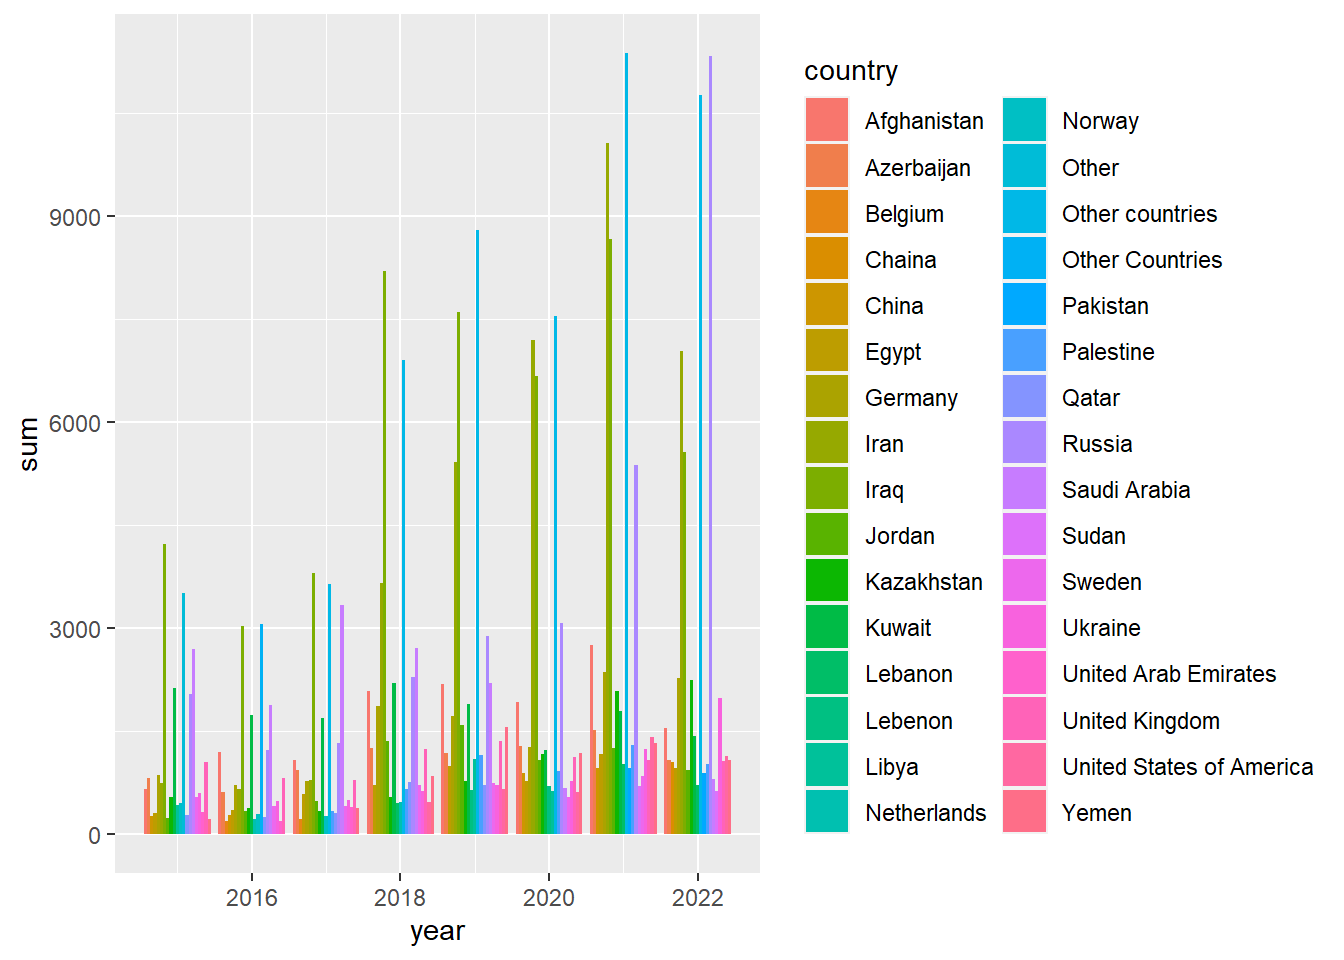
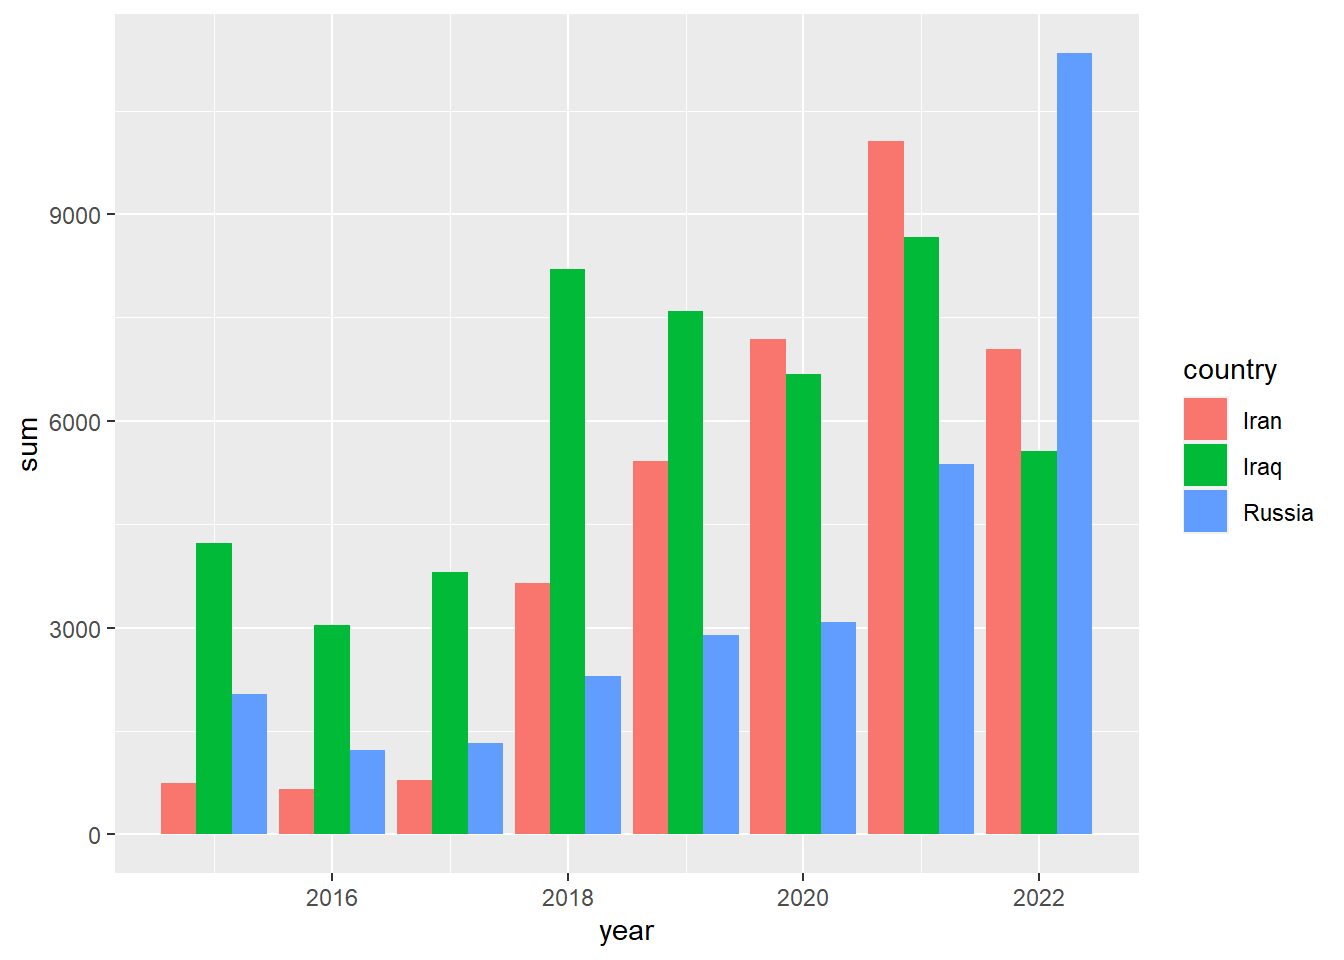
egemen -uğur

diff --git a/docs/ExploratoryDataAnalysis.html b/docs/ExploratoryDataAnalysis.html
@@ -295,6 +295,7 @@ code span.wa { color: #60a0b0; font-weight: bold; font-style: italic; } /* Warni
 <li>When we examine the sales data, although the rate of sales to foreigners has increased over the years, it has remained around 5 percent. Considering this information, it seems difficult for the sale to foreigners to have a significant impact on the market.</li>
 <li>After 2019, we can see that the annual average cost index exceeds the annual average turnover index.Due to the increasing cost index in 2018, new building construction becomes costly, as a result, new building construction remains low in response to new demand. As a result, while the second hand rate increases in sales, it causes an increase in house prices.</li>
 <li>When we examine the relationship between the dollar and TL exchange rate, we conclude that the TL has experienced a high depreciation against the dollar. And we observe that there is a clear correlation between the cost index and the dollar-tl exchange rate relationship.</li>
+<li>With the government’s limit on mortgage in 2021, the sales of housing with credit are decreasing, but the total sales are not decreasing. We see this because people buy houses with the cash they get from other ways because they think that house prices will not decrease.</li>
 </ol>
 <section id="total-sales-with-sales-to-foreigners-and-sales-to-foreigners-share" class="level3">
 <h3 class="anchored" data-anchor-id="total-sales-with-sales-to-foreigners-and-sales-to-foreigners-share">Total sales with Sales To Foreigners and Sales To Foreigners Share (%)</h3>
@@ -401,10 +402,9 @@ code span.wa { color: #60a0b0; font-weight: bold; font-style: italic; } /* Warni
 <div class="cell">
 <details>
 <summary>Show the code</summary>
-<div class="sourceCode cell-code" id="cb9"><pre class="sourceCode r code-with-copy"><code class="sourceCode r"><span id="cb9-1"><a href="#cb9-1" aria-hidden="true" tabindex="-1"></a><span class="fu">library</span>(readxl)</span>
-<span id="cb9-2"><a href="#cb9-2" aria-hidden="true" tabindex="-1"></a>HSTFBN <span class="ot">&lt;-</span> <span class="fu">read_excel</span>(<span class="st">"data/HSTFBN.xls"</span>, <span class="at">sheet =</span> <span class="st">"FOREIGNERS BY NATIONALITIES"</span>)</span>
-<span id="cb9-3"><a href="#cb9-3" aria-hidden="true" tabindex="-1"></a></span>
-<span id="cb9-4"><a href="#cb9-4" aria-hidden="true" tabindex="-1"></a>total_sale_by_country <span class="ot">&lt;-</span> HSTFBN <span class="sc">%&gt;%</span> <span class="fu">group_by</span>(year,country) <span class="sc">%&gt;%</span> <span class="fu">summarise</span>(<span class="at">sum=</span><span class="fu">sum</span>(total))</span></code><button title="Copy to Clipboard" class="code-copy-button"><i class="bi"></i></button></pre></div>
+<div class="sourceCode cell-code" id="cb9"><pre class="sourceCode r code-with-copy"><code class="sourceCode r"><span id="cb9-1"><a href="#cb9-1" aria-hidden="true" tabindex="-1"></a>HSTFBN <span class="ot">&lt;-</span> <span class="fu">read_excel</span>(<span class="st">"data/HSTFBN.xls"</span>, <span class="at">sheet =</span> <span class="st">"FOREIGNERS BY NATIONALITIES"</span>)</span>
+<span id="cb9-2"><a href="#cb9-2" aria-hidden="true" tabindex="-1"></a></span>
+<span id="cb9-3"><a href="#cb9-3" aria-hidden="true" tabindex="-1"></a>total_sale_by_country <span class="ot">&lt;-</span> HSTFBN <span class="sc">%&gt;%</span> <span class="fu">group_by</span>(year,country) <span class="sc">%&gt;%</span> <span class="fu">filter</span>(country <span class="sc">%in%</span> <span class="fu">c</span>(<span class="st">"Russia"</span>,<span class="st">"Iran"</span>, <span class="st">"Iraq"</span>)) <span class="sc">%&gt;%</span> <span class="fu">summarise</span>(<span class="at">sum=</span><span class="fu">sum</span>(total))</span></code><button title="Copy to Clipboard" class="code-copy-button"><i class="bi"></i></button></pre></div>
 </details>
 <div class="cell-output cell-output-stderr">
 <pre><code>`summarise()` has grouped output by 'year'. You can override using the
@@ -412,11 +412,8 @@ code span.wa { color: #60a0b0; font-weight: bold; font-style: italic; } /* Warni
 </div>
 <details>
 <summary>Show the code</summary>
-<div class="sourceCode cell-code" id="cb11"><pre class="sourceCode r code-with-copy"><code class="sourceCode r"><span id="cb11-1"><a href="#cb11-1" aria-hidden="true" tabindex="-1"></a><span class="co"># 2017'den sonra Iran, Irak'i geciyor.</span></span>
-<span id="cb11-2"><a href="#cb11-2" aria-hidden="true" tabindex="-1"></a><span class="co"># 2021'den 2022'ye gecerken rusya da yuksek bir artis var.</span></span>
-<span id="cb11-3"><a href="#cb11-3" aria-hidden="true" tabindex="-1"></a></span>
-<span id="cb11-4"><a href="#cb11-4" aria-hidden="true" tabindex="-1"></a><span class="fu">ggplot</span>(<span class="at">data=</span>total_sale_by_country,<span class="fu">aes</span>(<span class="at">x=</span>year,<span class="at">y=</span>sum,<span class="at">fill=</span>country)) <span class="sc">+</span></span>
-<span id="cb11-5"><a href="#cb11-5" aria-hidden="true" tabindex="-1"></a>  <span class="fu">geom_bar</span>(<span class="at">stat=</span><span class="st">"identity"</span>,<span class="at">position =</span> <span class="st">"dodge"</span>)</span></code><button title="Copy to Clipboard" class="code-copy-button"><i class="bi"></i></button></pre></div>
+<div class="sourceCode cell-code" id="cb11"><pre class="sourceCode r code-with-copy"><code class="sourceCode r"><span id="cb11-1"><a href="#cb11-1" aria-hidden="true" tabindex="-1"></a><span class="fu">ggplot</span>(<span class="at">data=</span>total_sale_by_country,<span class="fu">aes</span>(<span class="at">x=</span>year,<span class="at">y=</span>sum,<span class="at">fill=</span>country)) <span class="sc">+</span></span>
+<span id="cb11-2"><a href="#cb11-2" aria-hidden="true" tabindex="-1"></a>  <span class="fu">geom_bar</span>(<span class="at">stat=</span><span class="st">"identity"</span>,<span class="at">position =</span> <span class="st">"dodge"</span>)</span></code><button title="Copy to Clipboard" class="code-copy-button"><i class="bi"></i></button></pre></div>
 </details>
 <div class="cell-output-display">
 <p><img src="ExploratoryDataAnalysis_files/figure-html/unnamed-chunk-8-1.png" class="img-fluid" width="672"></p>
